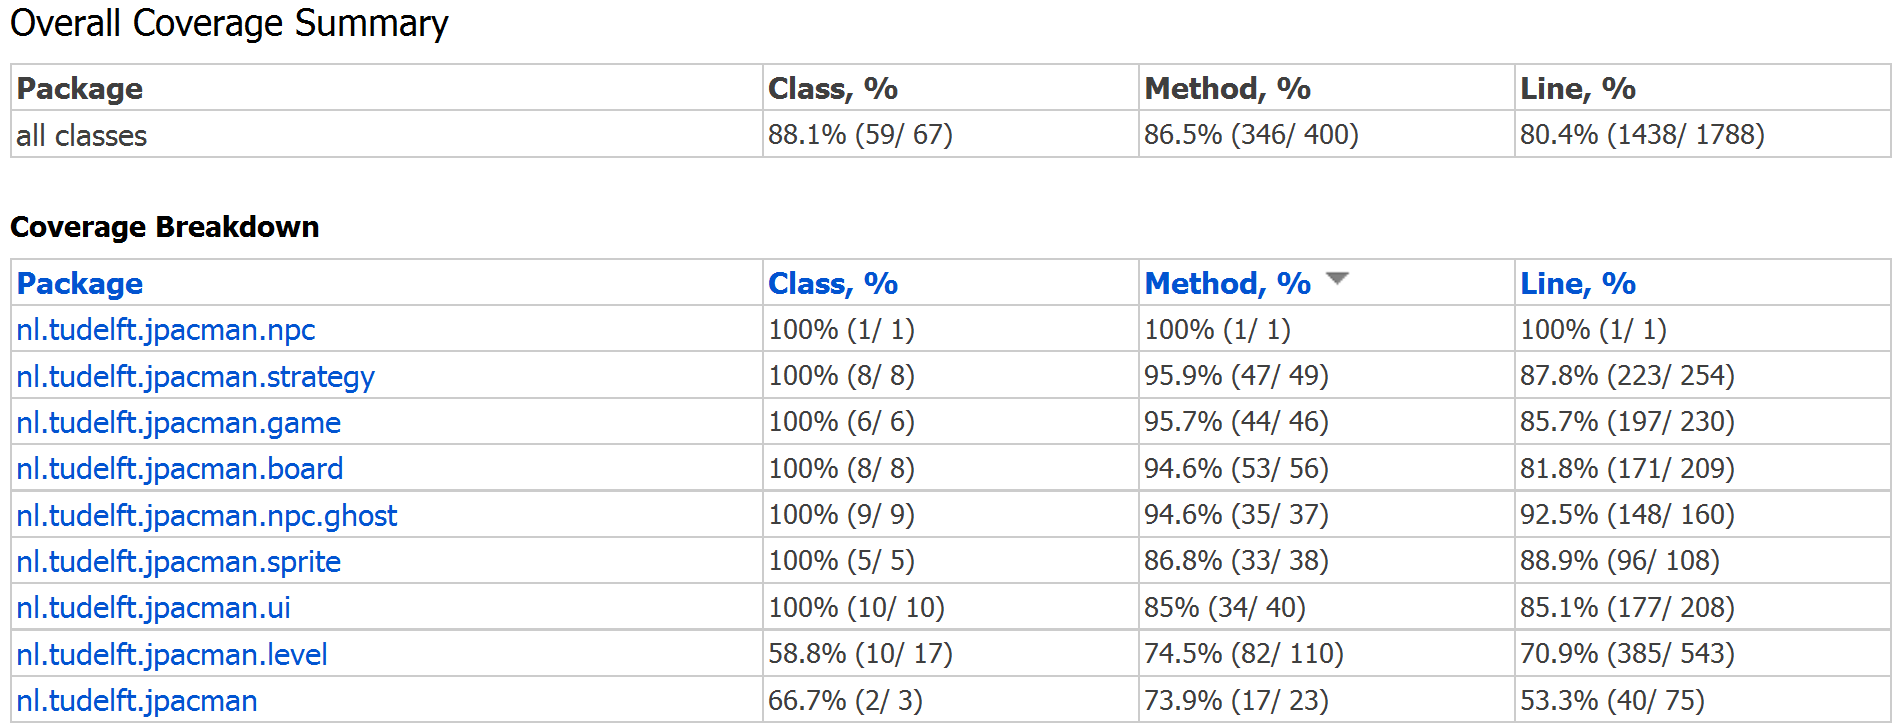
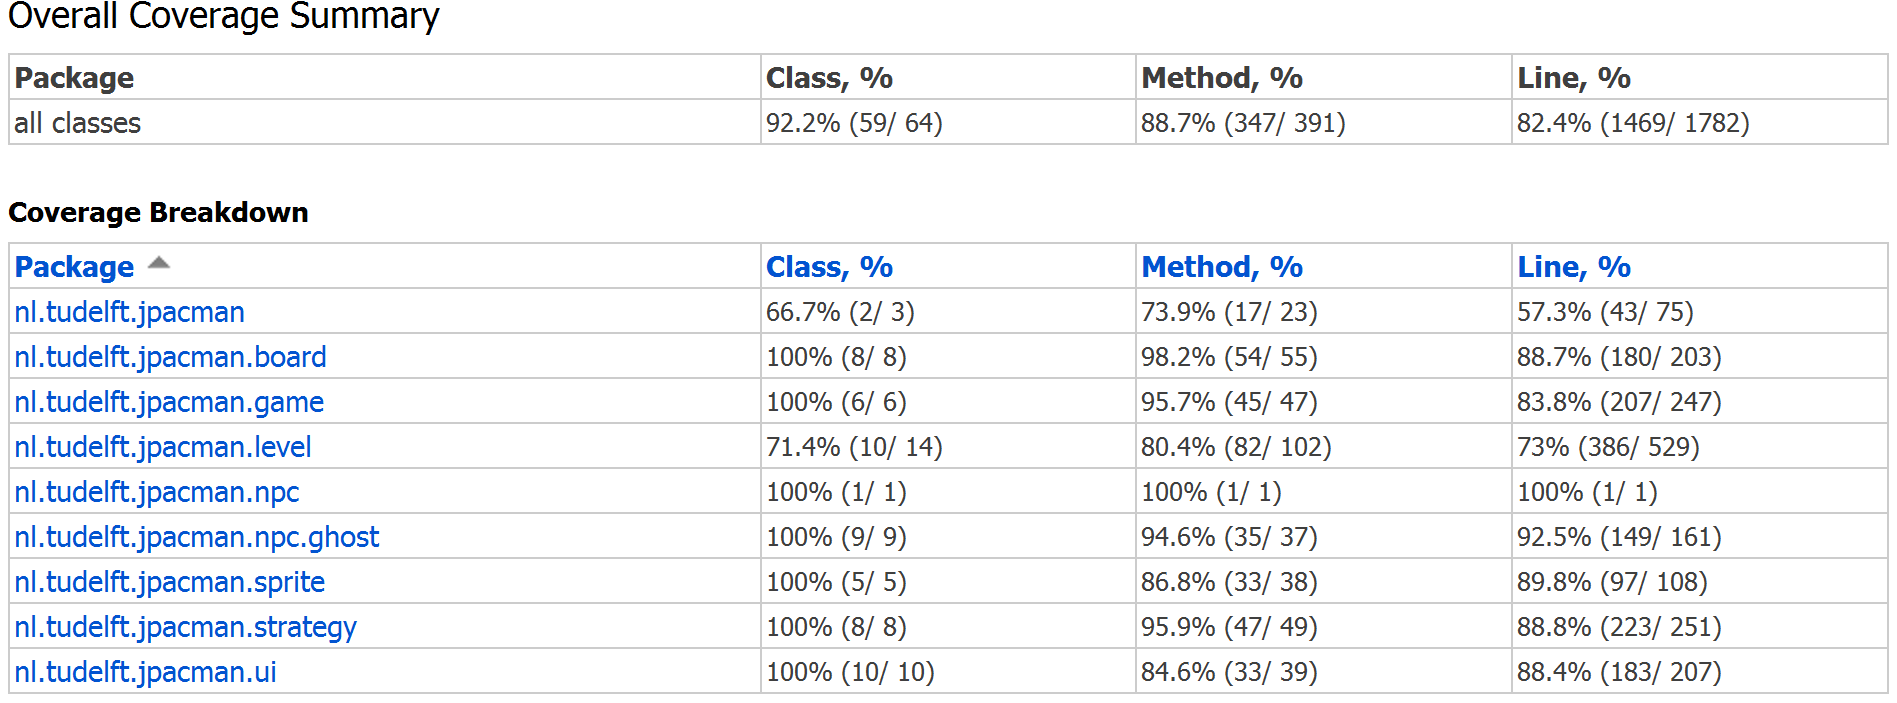
Coverage redone to match new code changes.

Changed region(s): [[0.0, 0.2688, 0.9953, 1.0], [0.0, 0.0, 0.9953, 0.239]]

diff --git a/Rapport/Rapport.tex b/Rapport/Rapport.tex
@@ -796,11 +796,8 @@ Si le nombre de lignes couvertes n'a pas augmenté en concordance, c'est essenti
 \paragraph{Classes où la couverture de code a diminué significativement}
 
 \begin{itemize}
-	\item La classe \mbox{\textit{BoardFactory}} a vu sa couverture diminuer de %todo
-	\% au niveau des méthodes et %todo
-	\% au niveau des lignes étant donné que certaines méthodes liées à la conversion d'images en fichiers de niveaux ne sont pas testées (la conversion en elle-même est testée mais les méthodes l'appelant non, car trop dépendantes des fichiers présents, qui peuvent varier).
-	\item La classe \mbox{\textit{PlayerCollisions}} a subi une légère baisse de sa couverture de lignes de 4\% du fait qu' une clause \og catch \fg() ne soit évidemment pas testée.
-	\item La classe \mbox{\textit{PacmManUI}} a perdu 12,1\% de couverture de lignes du fait que la création de boutons radios n'est pas testée.
+	\item La classe \mbox{\textit{BoardFactory}} a vu sa couverture diminuer de 6,7\% au niveau des méthodes et 27,2\% au niveau des lignes étant donné que certaines méthodes liées à la conversion d'images en fichiers de niveaux ne sont pas testées (la conversion en elle-même est testée mais les méthodes l'appelant non, car trop dépendantes des fichiers présents, qui peuvent varier).
+	\item La classe \mbox{\textit{PlayerCollisions}} a subi une légère baisse de sa couverture de lignes de 6,7\% du fait qu' une clause \og catch \fg() ne soit évidemment pas testée.
 \end{itemize}
 
 Dans le cas des classes préexistantes non mentionnées ci-haut, la couverture s'est soit maintenue, soit a été accrue, parfois fortement.
@@ -808,30 +805,32 @@ Dans le cas des classes préexistantes non mentionnées ci-haut, la couverture s
 \paragraph{Classes et packages ajoutés}
 
 \begin{itemize}
-	\item La classe \mbox{\textit{MyJDialog}} a une couverture de 100\% au niveau des classes, 75\% au niveau des méthodes et 70.5\% au niveau des lignes. Les méthodes et lignes non testées dépendent d' une action du joueur.
-	\item La classe \mbox{\textit{IdentifiedPlayer}} est couverte à hauteur de 100\% au niveau des classes, 81.8\% au niveau des méthodes et 64.8\% au niveau des lignes. Les méthodes et lignes non testées sont liées à des affichages graphiques.
-	\item La classe \mbox{\textit{IdentifiedPlayer}} jouit d' une couverture de 66.7\% au niveau des classes, 61.5\% au niveau des méthodes et 64.4\% au niveau des lignes. %J'ignore comment justifier ou même caractériser le contenu non couvert.
-	\item La classe \mbox{\textit{HallOfFame}} bénéficie d'une couverture de 100\% au niveau des classes, 91.7\% au niveau des méthodes et 72.7\% au niveau des lignes. Les méthodes et lignes non testées sont liées à des affichages graphiques et gestions d' exceptions.
-	\item L' énumération \mbox{\textit{Achievement}} se voit testée pour 100\% au niveau des classes, 100\% au niveau des méthodes et 92.9\% au niveau des lignes. Les lignes non testées correspondent à une gestion d' exceptions.
+	\item La classe \mbox{\textit{MyJDialogStrategy}} a une couverture de 100\% au niveau des classes, 71,4\% au niveau des méthodes et 69;8\% au niveau des lignes. Les méthodes et lignes non testées dépendent d' une action du joueur.
+	\item La classe \mbox{\textit{IdentifiedPlayer}} est couverte à hauteur de 100\% au niveau des classes, 85,7\% au niveau des méthodes et 65,6\% au niveau des lignes. Les méthodes et lignes non testées sont liées à des affichages graphiques.
+	\item La classe \mbox{\textit{AILevel}} jouit d' une couverture de 66,7\% au niveau des classes, 61,5\% au niveau des méthodes et 64,4\% au niveau des lignes. %J'ignore comment justifier ou même caractériser le contenu non couvert.
+	\item La classe \mbox{\textit{HallOfFame}} bénéficie d'une couverture de 100\% au niveau des classes, 91,7\% au niveau des méthodes et 72,7\% au niveau des lignes. Les méthodes et lignes non testées sont liées à des affichages graphiques et gestions d' exceptions.
+	\item L' énumération \mbox{\textit{Achievement}} se voit testée pour 100\% au niveau des classes, 100\% au niveau des méthodes et 92,9\% au niveau des lignes. Les lignes non testées correspondent à une gestion d' exceptions.
 	\item L' énumération \mbox{\textit{ItemsColor}} est entièrement couverte.
-	item La classe utilitaire \mbox{\textit{FileChecker}} dispose d'une couverture de code de 100\% au niveau des classes, 66.7\% au niveau des méthodes et 44.2\% au niveau des lignes. Le contenu non couvert correspond essentiellement à une méthode de lecture de fichier, en corrélation avec la nature de la classe.
-	\item Le package \mbox{\textit{AIStrategy}} est couvert pour 100\% au niveau des classes, 95.9\% au niveau des méthodes et 87.8\% au niveau des lignes. Les classes ci-dessous appartiennent à ce package.
+	item La classe utilitaire \mbox{\textit{FileChecker}} dispose d'une couverture de code de 100\% au niveau des classes, 66,7\% au niveau des méthodes et 51,2\% au niveau des lignes. Le contenu non couvert correspond essentiellement à une méthode de lecture de fichier, en corrélation avec la nature de la classe.
+	\item Le package \mbox{\textit{Strategy}} est couvert pour 100\% au niveau des classes, 95,9\% au niveau des méthodes et 88,8\% au niveau des lignes. Les classes ci-dessous appartiennent à ce package.
 	\item Les classes \mbox{\textit{AIStrategy}} et \mbox{\textit{HumanControllerStrategy}} sont entièrement couvertes.
 	%Note: ici, je suis tombé à court de façons différentes de dire "à une couverture de".
-	\item La classe \mbox{\textit{AStar}} a une couverture de 100\% au niveau des classes, 100\% au niveau des méthodes et 96.4\% au niveau des lignes.
-	\item La classe \mbox{\textit{AStarPath}} a une couverture de 100\% au niveau des classes, 100\% au niveau des méthodes et 90.6\% au niveau des lignes.
-	\item La classe \mbox{\textit{PacmanStrategy}} a une couverture de 100\% au niveau des classes, 100\% au niveau des méthodes et 90.9\% au niveau des lignes.
-	\item La classe \mbox{\textit{PacManhattanAI}} a une couverture de 100\% au niveau des classes, 92.9\% au niveau des méthodes et 79.5\% au niveau des lignes. %J'ignore comment justifier ou même caractériser le contenu non couvert.
+	\item La classe \mbox{\textit{AStar}} a une couverture de 100\% au niveau des classes, 100\% au niveau des méthodes et 96,4\% au niveau des lignes.
+	\item La classe \mbox{\textit{AStarPath}} a une couverture de 100\% au niveau des classes, 100\% au niveau des méthodes et 90,6\% au niveau des lignes.
+	\item La classe \mbox{\textit{PacmanStrategy}} a une couverture de 100\% au niveau des classes, 100\% au niveau des méthodes et 90,9\% au niveau des lignes.
+	\item La classe \mbox{\textit{PacManhattanAI}} a une couverture de 100\% au niveau des classes, 92,9\% au niveau des méthodes et 81,7\% au niveau des lignes. %J'ignore comment justifier ou même caractériser le contenu non couvert.
 \end{itemize}
 
 
 \paragraph{Mesures prises pour améliorer la couverture de code}
-L'analyse de couverture du code a révélé deux problèmes.
+L'analyse de couverture du code a révélé trois problèmes.
 
 %Note: Latex indiqué que "réinstauré" est fautif: il n'en est rien.  Pour court-circuité, pê trouver un remplaçement.
 En premier lieu, nous avions \og court-circuité \fg() les tests de l' interface graphique du jeu en lui-même, ceux-ci ont donc été réinstaurés.
 
 En deuxième lieu, une méthode (\mbox{\textit{Achievement\#offerAchievements()}}) ajoutée tardivement n' était pas testée, le testé a donc été rajouté.
+
+Enfin, des tests furent rajoutés pour la classe \mbox{\textit{PacManhattanAI}}.
 
 \subsubsection{Profilage}
 Pour cette partie de l'analyse dynamique, il sera fait usage de \textit{Yourkit} (version d'évaluation complète). On tente ici de déterminer si des endroits du code monopolisent les ressources CPU/RAM et, le cas échéant, lesquels.
